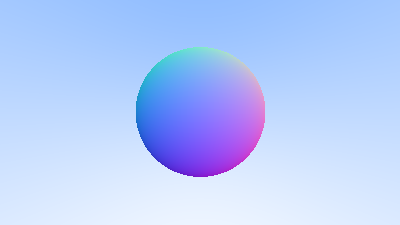
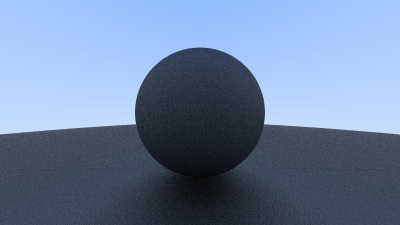
8.3

diff --git a/src/main.rs b/src/main.rs
@@ -1,89 +1,77 @@
-use ::image::math;
-use num::{ToPrimitive, range};
-use rayoneweek::{image, ray::Ray, vec3::{Color, Point3, Vec3}, math_utils::quadratic_equation};
-use ndarray::{Array3, Array};
-use rayoneweek::vec3;
+use std::f32::INFINITY;
 
-fn ray_color(r:&Ray)->Color{
+use ndarray::{Array, Array3};
+use num::range;
+use rand::{distributions::Uniform, prelude::Distribution};
+use rayoneweek::{
+    hittable::{Hittable, HittableList},
+    image,
+    ray::Ray,
+    sphere::Sphere,
+    vec3::{Color, Point3, Vec3}, camera::Camera,
+};
+
+fn ray_color(r: &Ray, world: &impl Hittable,depth:usize) -> Color {
     let unit_dir = r.dir.to_unit();
-    let t = (unit_dir.y+1.0)/2.0;
-    let sphere_center = Point3::new(0.0,0.0,-1.0);
-    if let Some(intersect) = ray_sphere(&r,0.5,sphere_center){
-        let N =  (intersect-sphere_center).to_unit();
-        return 0.5*(N+1.0);
+    let t = (unit_dir.y + 1.0) / 2.0;
+    if depth<=0{
+        return Color::new(0.0, 0.0, 0.0)
     }
-    (1.0-t)*Color::new(1.0,1.0,1.0) + t*Color::new(0.5,0.7,1.0)
+    if let Some(hit_record) = world.hit(r, 0.0, INFINITY) {
+        let target = hit_record.p + hit_record.normal + Vec3::random_in_unit_sphere();
+        let new_ray = Ray::new(hit_record.p,target);
+        return 0.5 * (ray_color(&new_ray,world,depth-1));
+    }
+    (1.0 - t) * Color::new(1.0, 1.0, 1.0) + t * Color::new(0.5, 0.7, 1.0)
 }
 
-fn ray_sphere(ray:&Ray,radius:f32,center:Point3)->Option<Vec3>{
-    let radius_squared = radius*radius;
-    let new_pos = ray.origin - center;
-    if let Some(times) =  quadratic_equation(ray.dir.length_squared(), 2.0*new_pos.dot(ray.dir), new_pos.length_squared()-radius_squared){
-        if times[0]>0.0{
-            return Some(ray.at(times[0]));
-        }else if times[1]>0.0 {
-            return Some(ray.at(times[1]));
-        }
-        return None;
+fn set_color(x: usize, y: usize, color: Color, arr: &mut Array3<u8>,samples_per_pixel:u32) {
+    let (height, width, rgb) = arr.dim();
+    if rgb != 3 || y > height || x > width {
+        panic!(
+            "Image Index Error rgb:{} y:{} height:{} x:{} width:{}",
+            rgb, y, height, x, width
+        );
     }
-    None
-}
-
-
-
-fn set_color(x:usize,y:usize,color:Color,arr:&mut Array3<u8>){
-    let (height,width,rgb) = arr.dim();
-    if rgb!=3||y>height||x>width {
-        panic!("Image Index Error rgb:{} y:{} height:{} x:{} width:{}",rgb,y,height,x,width);
-    }
-    for i in 0..3{
+    let scale = 1.0/samples_per_pixel as f32;
+    for i in 0..3 {
         let color_arr = color.to_array();
-        arr[[y,x,i]] = (color_arr[i]*255.999).clamp(0.0,255.0) as u8;
+        arr[[y, x, i]] = ((color_arr[i]* scale).sqrt() * 256.0).clamp(0.0, 255.0) as u8;
     }
 }
 
 fn main() {
     //Image
-    const ASPECT_RATIO:f32  = 16.0/9.0; //width/ratio = height //height*ratio = width
-    const IMG_WIDTH:usize = 400;
-    const IMG_HEIGHT:usize = (IMG_WIDTH as f32/ASPECT_RATIO) as usize;
+    const ASPECT_RATIO: f32 = 16.0 / 9.0; //width/ratio = height //height*ratio = width
+    const IMG_WIDTH: usize = 400;
+    const IMG_HEIGHT: usize = (IMG_WIDTH as f32 / ASPECT_RATIO) as usize;
+    const SAMPLES_PER_PIXEL:u32 = 100;
 
+    let cam:Camera = Camera::new(2.0,2.0*ASPECT_RATIO);
 
-    //Camera
-    let viewport_height:f32 = 2.0;
-    let viewport_width:f32 = ASPECT_RATIO*viewport_height;
+    let mut img_array: Array3<u8> = Array::zeros((IMG_HEIGHT, IMG_WIDTH, 3));
 
-    let focal_length:f32 = 1.0;
-    let origin:Point3 = Point3::new(0.0,0.0,0.0);
-
-    let horizontal = Vec3::new(viewport_width,0.0,0.0);
-    let vertical = Vec3::new(0.0,viewport_height,0.0);
-    let lower_left_corner = origin - horizontal/2 - vertical/2 - Vec3::new(0.0,0.0,focal_length);
-
-    let mut img_array:Array3<u8> = Array::zeros((IMG_HEIGHT,IMG_WIDTH,3));
-
+    let mut world = HittableList::new();
+    let sphere_center = Point3::new(0.0, 0.0, -1.0);
+    let sphere = Sphere::new(sphere_center, 0.5);
+    let ground = Sphere::new(Point3::new(0.0, -100.5, -1.0), 100.0);
+    world.add(Box::new(sphere));
+    world.add(Box::new(ground));
+    let mut rng = rand::thread_rng();
+    let rand_range = Uniform::new(0.0f32,1.0f32);
     //Render
-    for y in range(0, IMG_HEIGHT){
-        for x in range(0,IMG_WIDTH){
-            let u = x as f32/IMG_WIDTH as f32;//horizontal viewport pos
-            let v = y as f32/IMG_HEIGHT as f32;//vertical veiwport pos
-            
-            let ray = Ray::new(origin,lower_left_corner+u*horizontal+v*vertical - origin);
+    for y in range(0, IMG_HEIGHT) {
+        for x in range(0, IMG_WIDTH) {
+            let mut color = Color::new(0.0,0.0,0.0);
+            for s in range(0,SAMPLES_PER_PIXEL){
+                let u = (x as f32 + rand_range.sample(&mut rng)) / IMG_WIDTH as f32; //horizontal viewport pos
+                let v = (y as f32  + rand_range.sample(&mut rng)) / IMG_HEIGHT as f32; //vertical veiwport pos
+                color += ray_color(&cam.get_ray(u, v), &world,50);
+            } 
+            set_color(x, IMG_HEIGHT - y - 1, color, &mut img_array,SAMPLES_PER_PIXEL);
 
-            let color = ray_color(&ray);
-            set_color(x, IMG_HEIGHT-y-1, color, &mut img_array);
         }
     }
-
-    // for ((y,x,z),v) in array.indexed_iter_mut() {
-    //     *v = match z{
-    //         0 => x as u8,
-    //         1 => (HEIGHT - y) as u8,
-    //         2 => 64,
-    //         _=>unreachable!(),
-    //     }
-    // }
-
 
     let img = image::array_to_image(img_array);
     img.save("output.png").expect("fail");

diff --git a/src/vec3.rs b/src/vec3.rs
@@ -1,5 +1,6 @@
 use num::{ToPrimitive};
-use std::ops::{Add, Div, Mul, Sub};
+use rand::{distributions::Uniform, prelude::Distribution};
+use std::ops::{Add, Div, Mul, Sub, AddAssign, SubAssign, MulAssign, DivAssign};
 #[derive(Copy, Clone, Debug, PartialEq, PartialOrd)]
 pub struct Vec3 {
     pub x: f32,
@@ -32,6 +33,20 @@ impl Vec3 {
 
     pub fn sum(&self)->f32 {
       self.x+self.y+self.z
+    }
+
+    pub fn random()->Vec3{
+      let mut rng = rand::thread_rng();
+      let rand_range = Uniform::new(-1.0f32,1.0f32);
+      Vec3::new(rand_range.sample(&mut rng),rand_range.sample(&mut rng),rand_range.sample(&mut rng))
+    }
+    pub fn random_in_unit_sphere()->Vec3{
+      loop{
+        let rand = Vec3::random();
+        if rand.length_squared()<1.0{
+          return rand;
+        }  
+      }
     }
 }
 
@@ -107,26 +122,51 @@ macro_rules! impl_number_operations {
   }
 }
 
+macro_rules! impl_op_assign {
+  ($VectorType:ident $OperationAssign:ident $op_fn:ident $op_symbol:tt) => {
+    impl<'a> $OperationAssign<&'a $VectorType> for $VectorType {
+      fn $op_fn(&mut self, other: &'a $VectorType) {
+        *self = $VectorType {
+          x: self.x $op_symbol other.x,
+          y: self.y $op_symbol other.y,
+          z: self.z $op_symbol other.z,
+        };
+      }
+    }
+
+    impl $OperationAssign for $VectorType {
+      #[inline]
+      fn $op_fn(&mut self, other: $VectorType) {
+        *self = *self $op_symbol &other
+      }
+    }
+  };
+}
+
 
 impl_binary_operations!(Vec3 Add add +);
+impl_op_assign!(Vec3 AddAssign add_assign +);
 impl_number_operations!(Vec3 Add add + f32);
 impl_number_operations!(Vec3 Add add + i32);
 impl_number_operations!(Vec3 Add add + u32);
 impl_number_operations!(Vec3 Add add + usize);
 
 impl_binary_operations!(Vec3 Sub sub -);
+impl_op_assign!(Vec3 SubAssign  sub_assign -);
 impl_number_operations!(Vec3 Sub sub - f32);
 impl_number_operations!(Vec3 Sub sub - i32);
 impl_number_operations!(Vec3 Sub sub - u32);
 impl_number_operations!(Vec3 Sub sub - usize);
 
 impl_binary_operations!(Vec3 Mul mul *);
+impl_op_assign!(Vec3 MulAssign  mul_assign *);
 impl_number_operations!(Vec3 Mul mul * f32);
 impl_number_operations!(Vec3 Mul mul * i32);
 impl_number_operations!(Vec3 Mul mul * u32);
 impl_number_operations!(Vec3 Mul mul * usize);
 
 impl_binary_operations!(Vec3 Div div /);
+impl_op_assign!(Vec3 DivAssign  div_assign /);
 impl_number_operations!(Vec3 Div div / f32);
 impl_number_operations!(Vec3 Div div / i32);
 impl_number_operations!(Vec3 Div div / u32);

diff --git a/src/sphere.rs b/src/sphere.rs
@@ -1,0 +1,58 @@
+use crate::{
+    hittable::{HitRecord, Hittable},
+    math_utils::quadratic_equation,
+    ray::Ray,
+    vec3::Point3,
+};
+
+#[derive(Debug)]
+pub struct Sphere {
+    pub center: Point3,
+    pub radius: f32,
+}
+
+impl Sphere {
+    pub fn new(center:Point3,radius:f32)->Sphere{
+        Sphere{center,radius}
+    }
+}
+
+impl Hittable for Sphere {
+    fn hit(&self, ray: &Ray, t_min: f32, t_max: f32) -> Option<HitRecord> {
+        let radius_squared = self.radius * self.radius;
+        let new_pos = ray.origin - self.center;
+        if let Some(times) = quadratic_equation(
+            ray.dir.length_squared(),
+            2.0 * new_pos.dot(ray.dir),
+            new_pos.length_squared() - radius_squared,
+        ) {
+            let mut time = times[0];
+            let check_range = |time:f32|{
+                t_min < time && time < t_max
+            };
+            if !check_range(time) {
+                time = times[1];
+                if !check_range(time) {
+                    return None;
+                }
+            }
+            let intersect_point = ray.at(time);
+            let outer_normal = (intersect_point - self.center).to_unit();
+            let mut normal = outer_normal;
+            let mut front_face = true;
+            if ray.dir.dot(outer_normal)>0.0 {
+                normal = -1.0*outer_normal;
+                front_face = false;
+            }
+
+            let hit_record = HitRecord {
+                p: intersect_point,
+                normal: normal,
+                t: time,
+                front_face:front_face,
+            };
+            return Some(hit_record);
+        }
+        None
+    }
+}

diff --git a/src/hittable.rs b/src/hittable.rs
@@ -1,0 +1,38 @@
+use crate::{vec3::{Point3, Vec3}, ray::Ray};
+
+pub struct HitRecord{
+    pub p:Point3,
+    pub normal:Vec3,
+    pub t:f32,
+    pub front_face:bool,
+}
+
+pub trait Hittable {
+    fn hit(&self,ray:&Ray,t_min:f32,t_max:f32)->Option<HitRecord>;
+}
+
+pub struct HittableList{
+    pub objects:Vec<Box<dyn Hittable>>,
+}
+
+impl HittableList{
+    pub fn new()->HittableList{
+        HittableList{objects:vec!()}
+    }
+    pub fn add(&mut self,obj:Box<dyn Hittable>){
+        self.objects.push(obj);
+    }
+}
+impl Hittable for HittableList{
+    fn hit(&self,ray:&Ray,t_min:f32,t_max:f32)->Option<HitRecord>{
+        let mut tmp_record:Option<HitRecord> = None; 
+        let mut closest_sofar = t_max;
+        self.objects.iter().for_each(|obj|{
+            if let Some(hit_record) = obj.hit(ray, t_min, closest_sofar){
+                closest_sofar = hit_record.t;
+                tmp_record = Some(hit_record);
+            }
+        });
+        tmp_record
+    }
+}

diff --git a/src/camera.rs b/src/camera.rs
@@ -1,0 +1,30 @@
+use crate::{vec3::{Point3, Vec3}, ray::Ray};
+
+pub struct Camera {
+    origin: Point3,
+    lower_left_corner: Point3,
+    horizontal: Vec3,
+    vertical: Vec3,
+}
+
+impl Camera {
+    pub fn new(viewport_height:f32,viewport_width:f32) ->Camera{
+
+        let focal_length: f32 = 1.0;
+        let origin: Point3 = Point3::new(0.0, 0.0, 0.0);
+
+        let horizontal = Vec3::new(viewport_width, 0.0, 0.0);
+        let vertical = Vec3::new(0.0, viewport_height, 0.0);
+        let lower_left_corner = origin - horizontal / 2 - vertical / 2 - Vec3::new(0.0, 0.0, focal_length);
+
+        Camera{
+            origin,
+            lower_left_corner,
+            horizontal,
+            vertical
+        }
+    }
+    pub fn get_ray(&self,u:f32,v:f32)->Ray{
+        Ray::new(self.origin,self.lower_left_corner+u*self.horizontal+v*self.vertical)
+    }
+}

diff --git a/src/lib.rs b/src/lib.rs
@@ -2,3 +2,6 @@ pub mod image;
 pub mod vec3;
 pub mod ray;
 pub mod math_utils;
+pub mod hittable;
+pub mod sphere;
+pub mod camera;
